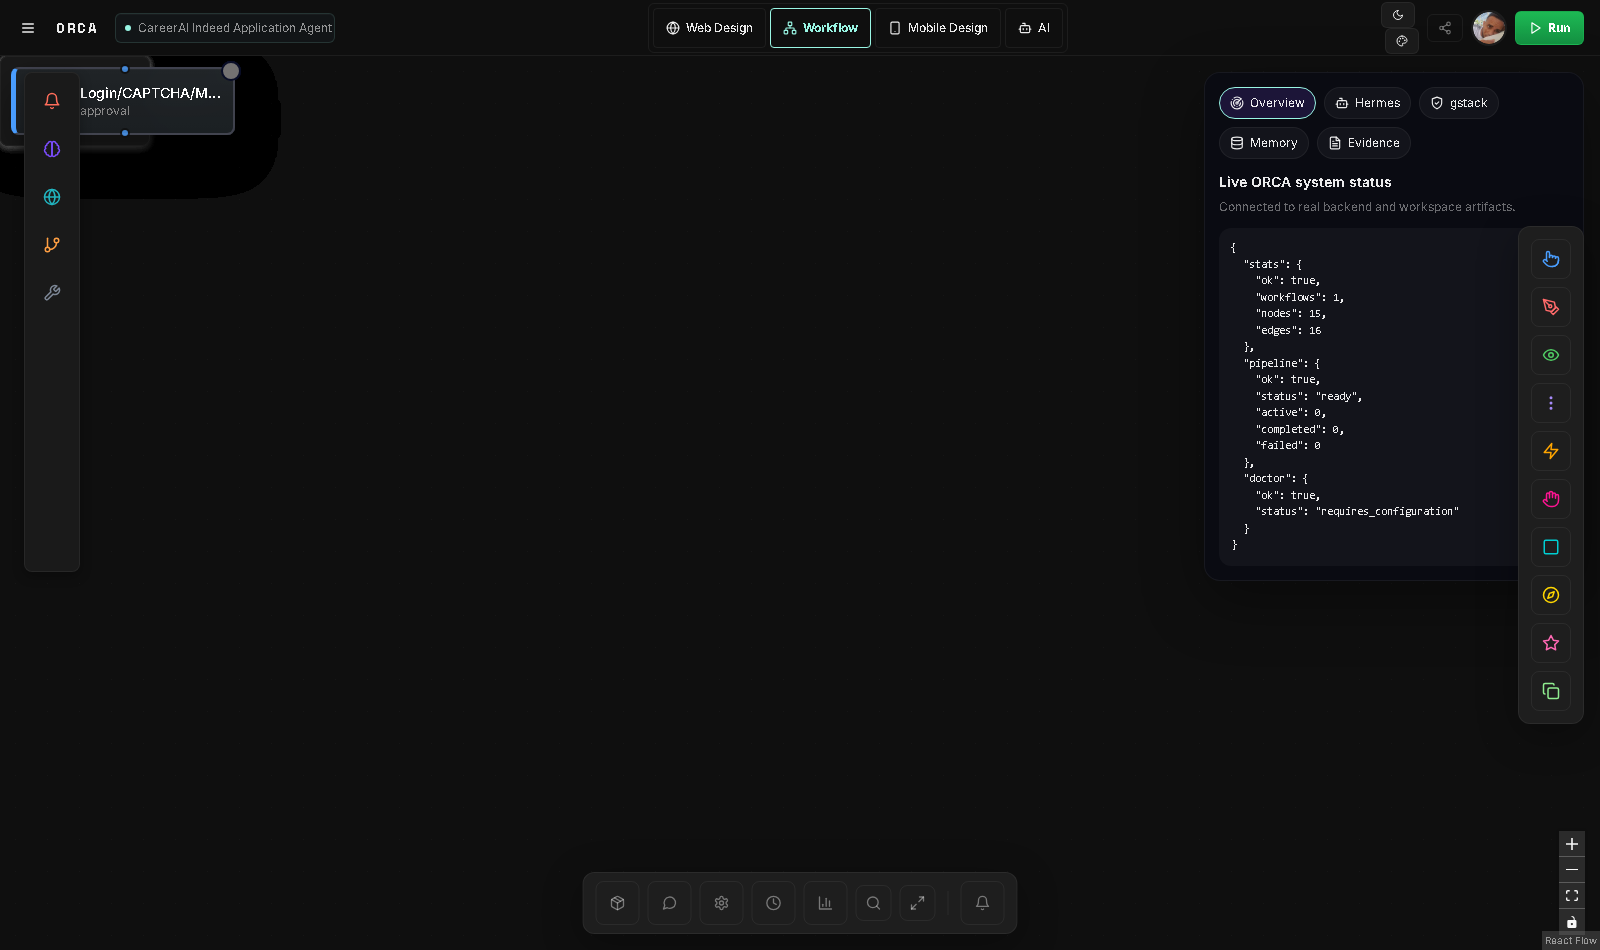
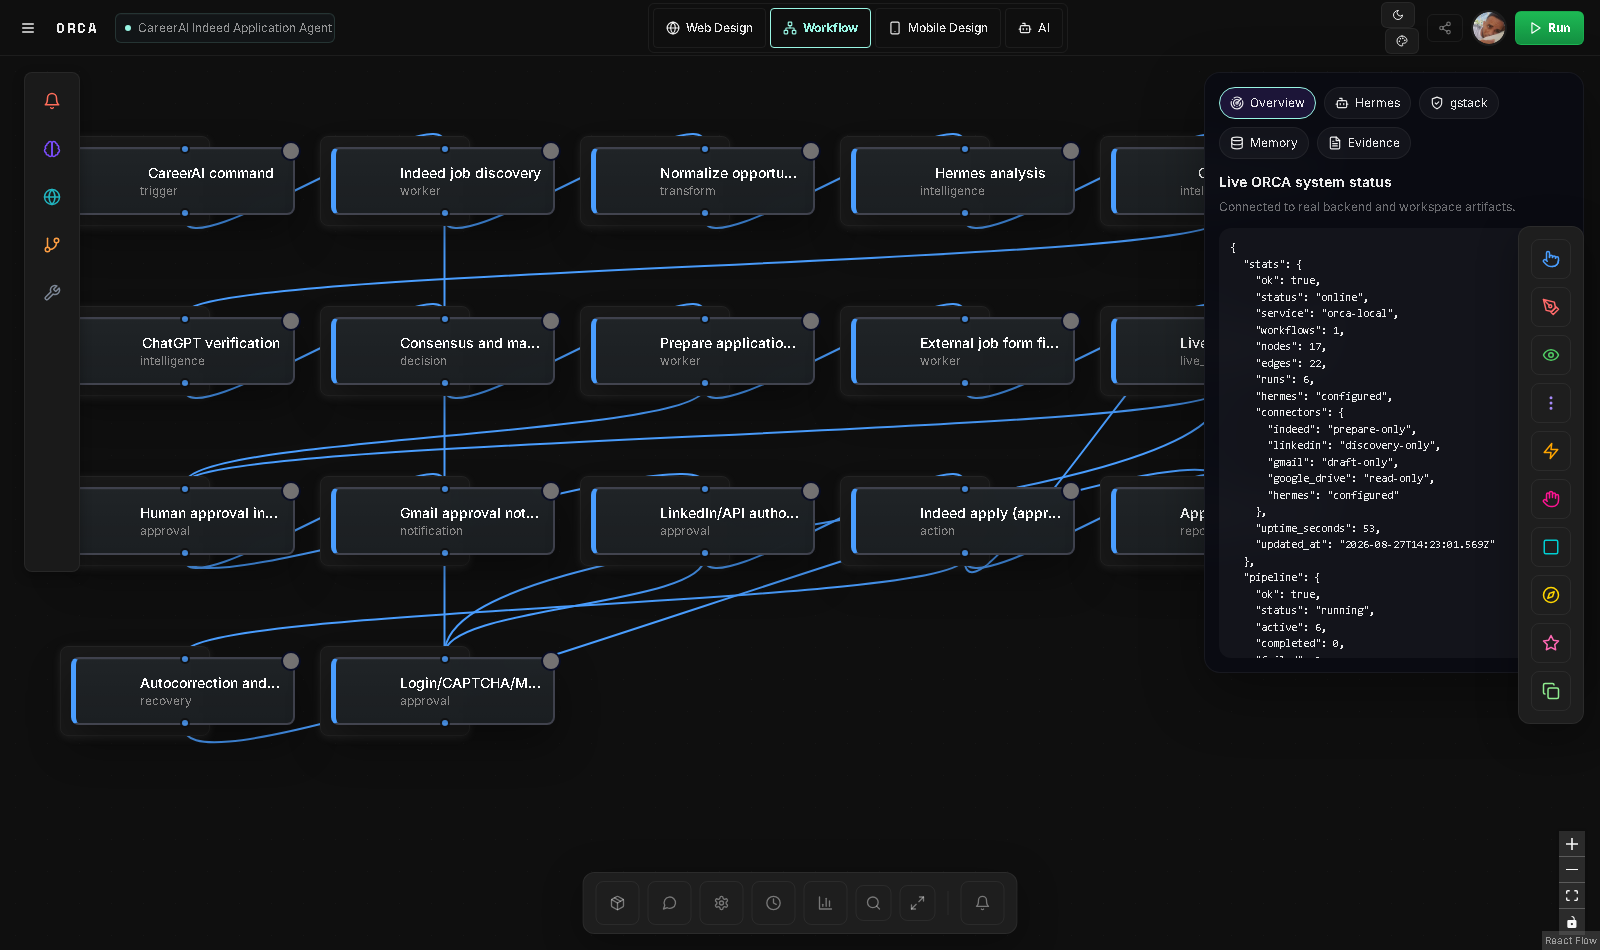
fix(orca): nodos apilados, edges invisibles y panel de estado colgado
Tres defectos del workflow editor, diagnosticados leyendo el bundle compilado
porque el fuente del editor no esta en esta copia del repo:

- position se emitia como array [x,y] al estilo n8n, pero el canvas es React Flow
  y espera {x,y}: los 17 nodos quedaban apilados en el origen y el canvas parecia
  vacio. Ahora se emiten ambos formatos y se reparten en rejilla.
- El convertidor del editor lee i.node_id de cada conexion; el servidor enviaba
  { node }, asi que el destino quedaba en [object Object] y no se dibujaba ninguna
  linea. Con node_id se dibujan los 22 edges.
- hermesDoctor() ejecutaba el CLI con execFileSync en cada peticion y bloqueaba el
  event loop: /api/stats tardaba 6 s y el panel de estado se cancelaba antes de
  resolver. Introducido por mi al hacer el doctor consciente del CLI. Con cache de
  60 s pasa de 6 s a 24 ms.

/api/stats y /api/pipeline/stats devuelven ahora estado real: nodos, edges,
corridas, Hermes y conectores.

Regresion: 18/18 offline y 3/3 live en verde.

Claude-Session: https://claude.ai/code/session_011JukgpnEKmojypDHekAGdP

diff --git a/CHANGE_TIMELINE.md b/CHANGE_TIMELINE.md
@@ -559,3 +559,31 @@ confirmacion esten realmente ahi. Verifica ademas que:
 - un periodo sin pendientes lo dice explicitamente en vez de dejar la seccion vacia.
 
 Regresion offline: **18/18 en verde**.
+
+### Tres bugs del workflow editor, encontrados al abrirlo de verdad
+
+El propietario pidio ver el editor. Al abrirlo aparecieron tres defectos reales, los tres
+diagnosticados leyendo el bundle compilado (`dist/assets/index-*.js`), porque el codigo
+fuente del editor no esta en esta copia del repositorio.
+
+1. **Los 17 nodos se renderizaban apilados en el origen** y el canvas parecia vacio. La API
+   emitia `position` como array `[x, y]` al estilo n8n, pero el canvas es React Flow y espera
+   `{x, y}`. Ahora se emiten ambos formatos y se reparten en rejilla de 5 columnas.
+   Verificado en el DOM: transforms reales, no amontonados.
+
+2. **Ninguna conexion se dibujaba.** El convertidor del editor es
+   `JK(t)` y lee `i.node_id || i` de cada conexion; el servidor enviaba `{ node: ... }`, asi
+   que el destino quedaba en `[object Object]`. Enviando `node_id` se dibujan los **22 edges**.
+
+3. **El panel "Live ORCA system status" se quedaba en "Loading live data..." con `{}`.**
+   Causa raiz: `hermesDoctor()` ejecuta el CLI de Hermes con `execFileSync` **en cada
+   peticion**, bloqueando el event loop del servidor. `/api/stats` tardaba **6 segundos** y el
+   efecto del panel se cancelaba antes de resolver. Ese bug lo introduje yo al hacer el doctor
+   consciente del CLI. Con cache de 60 s: **6 s -> 24 ms**, y el panel ya muestra los datos.
+
+Ademas se enriquecieron `/api/stats` y `/api/pipeline/stats` con estado real: nodos, edges,
+corridas, estado de Hermes y conectores.
+
+**URL del editor:** `http://127.0.0.1:4173/?workflow=careerai-indeed-agent` (`npm run orca:start`).
+
+Regresion: 18/18 offline y 3/3 de la suite live en verde.
